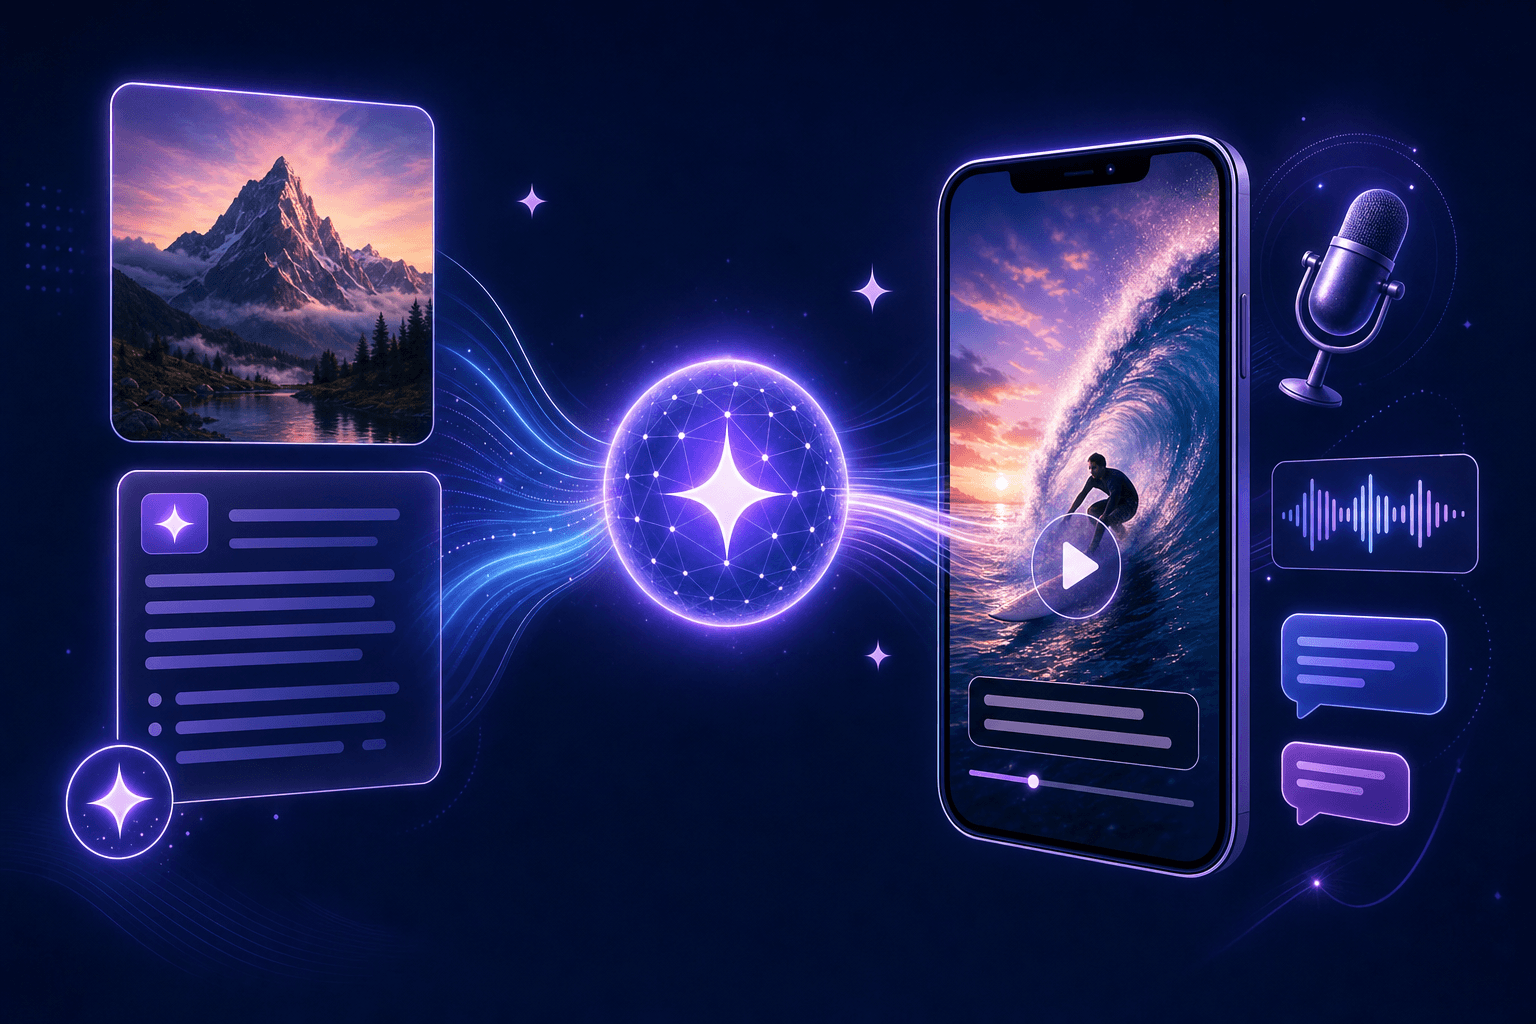
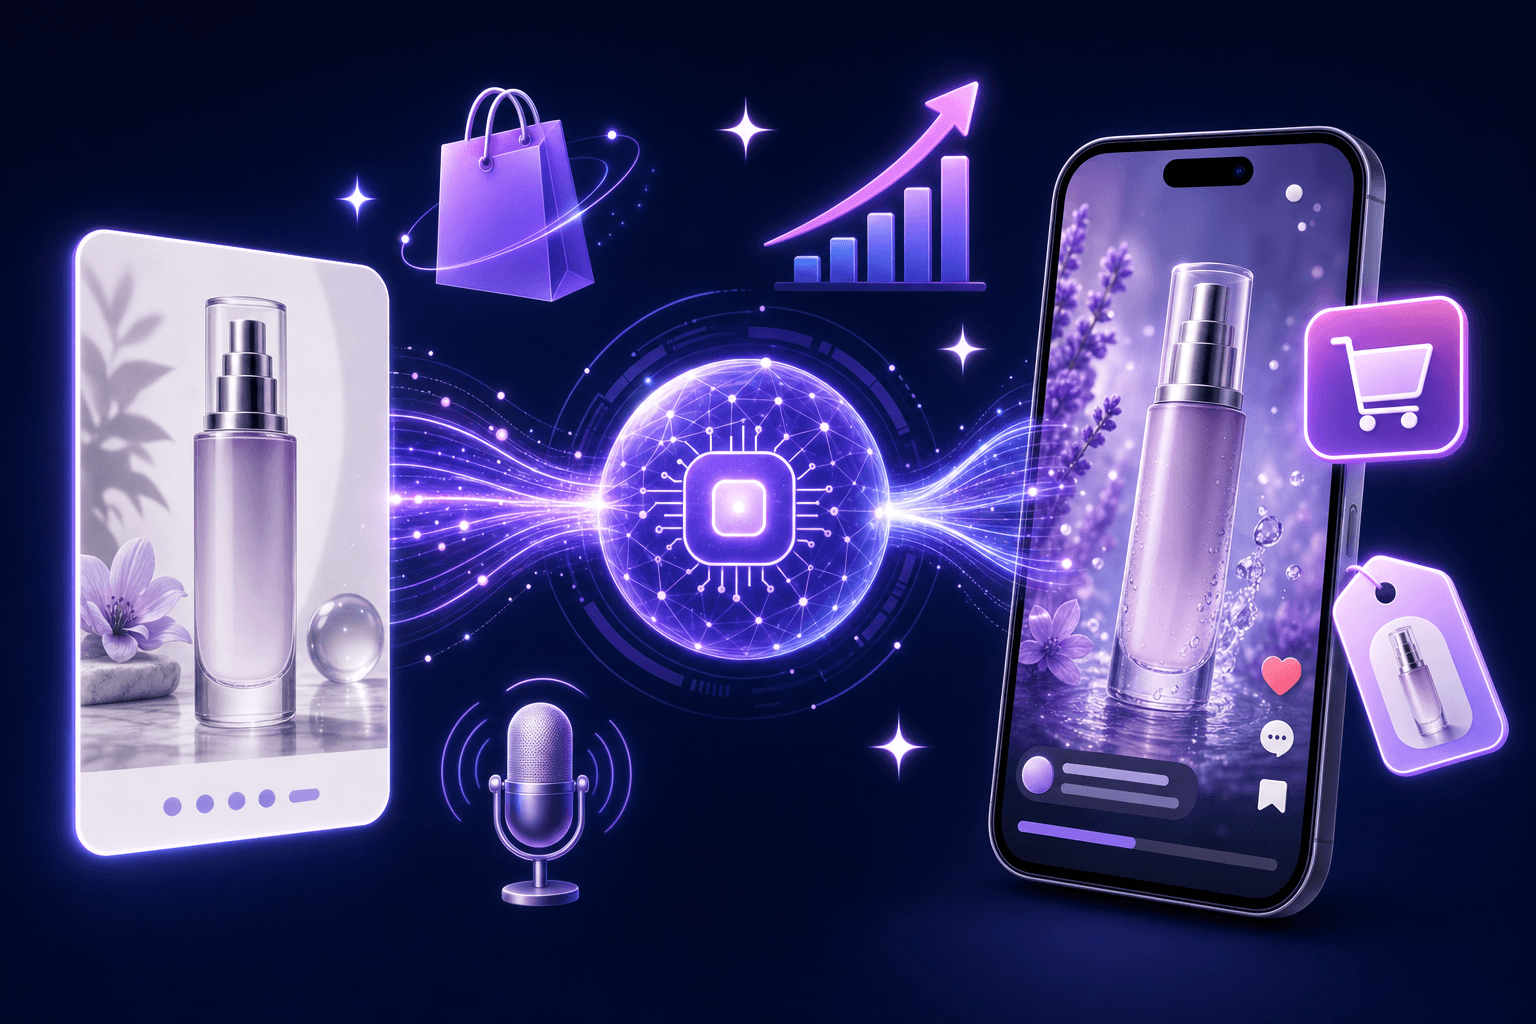
docs(readme): sharpen 带货/e-commerce positioning (CN+EN), add product-to-sales-video case, swap in a 带货-themed hero image

diff --git a/README.en.md b/README.en.md
@@ -1,8 +1,8 @@
-<p align="center"><img src="docs/banner.png" alt="ClipForge — AI short-video generator for TikTok, Reels and Shorts" width="820"/></p>
+<p align="center"><img src="docs/banner.png" alt="ClipForge — open-source AI e-commerce short-video generator: a product photo into a TikTok Shop / Reels / Shorts ad that sells" width="820"/></p>
 
-# ClipForge — Open-Source AI Short-Video Generator
+# ClipForge — Open-Source AI Video Generator for E-Commerce & UGC Ads
 
-> **Turn one sentence — or a single product photo — into a ready-to-post vertical video for TikTok, Reels & YouTube Shorts.** AI writes the script, auto-fills the footage, adds a voiceover and subtitles, and renders it in one click. Free, self-hosted, no watermark.
+> **Turn a product photo into a sales-driving short video.** Upload your product → AI extracts the selling points, writes the script, **keeps the product pixel-accurate (no distortion)**, and adds voiceover + subtitles + music → a ready-to-post ad for **TikTok Shop · Shopify · Amazon · Reels · Shorts**. One seller, dozens of videos a day — free, self-hosted, no watermark.
 
 <p align="right"><strong>English</strong> · <a href="README.md">中文</a></p>
 
@@ -14,12 +14,16 @@
   <img src="https://img.shields.io/badge/UI-中文%20%2F%20English-06B6D4?style=flat-square" alt="Bilingual UI" />
 </p>
 
-**ClipForge** is a free, open-source **AI video generator** you run on your own machine. It automates the whole short-form pipeline — **script → footage → voiceover → subtitles → final cut** — so anyone can make **faceless videos** and **product ads** without filming, editing, or design skills.
+**ClipForge** (formerly *带货剪手 / daihuo-jianshou*) is a free, open-source **AI short-video generator built for selling**. Most AI video tools can't actually do e-commerce — they don't extract selling points, don't understand platform algorithms, and distort your product. ClipForge was designed for **conversion** from day one:
 
-Two zero-friction ways to create:
+- 🎯 **Product fidelity (the e-commerce must-have).** Image-to-image locks your original product photo — swap backgrounds & lighting **without changing the product itself**.
+- 🧲 **Scripts that sell.** Category templates × selling-angle styles (pain-point, lifestyle, comparison, story) + a *golden-3-seconds* hook library — not dry spec-reading.
+- 📈 **Platform-tuned.** Auto hashtags, cover copy & CTAs matched to TikTok / Reels / Shorts and Douyin / Kuaishou / Xiaohongshu algorithms.
+- 📦 **Batch & remix.** Bulk-render 10 products at once, save winning scripts as templates, *clone a trending video* (swap the product), A/B variants.
 
-- 🎬 **Text to video (faceless)** — type one topic, get a narrated vertical short. No product, **no API key required**: footage comes from free stock libraries and the voiceover from a free TTS engine. Perfect for faceless TikTok / YouTube Shorts / Instagram Reels channels.
-- 🛍️ **Product & UGC video** — upload a product photo, and AI analyzes the selling points, writes the scripts, generates the shots, and composes a polished ad — ready to export for TikTok Shop, Shopify, Amazon, Etsy, Douyin, Kuaishou, or Xiaohongshu.
+**And it's free to run at scale:** free stock footage (Openverse images + **Wikimedia real video**) + free Microsoft Edge TTS voiceover + free background music + local FFmpeg — **no API key needed for a full video**. No watermark, local-first & private. Add a key only for higher-end AI models (GPT-Image-2, Seedance 2.0, Kling 3.0…).
+
+> Two ways to create: **🛍️ Product → sales video** (main use case), or **🗣️ one-sentence → faceless topic video** for any non-commerce subject.
 
 <p align="center"><img src="docs/hero.png" alt="ClipForge pipeline: one sentence or a product photo → AI script → auto stock footage → free voiceover → subtitles → vertical video" width="820"/></p>
 
@@ -35,7 +39,7 @@ Two zero-friction ways to create:
 - **Faceless by design.** Every shot is matched to real stock footage — no face, no camera, no on-screen talent needed.
 - **Free stock footage engine.** Aggregated search across **Openverse (keyless), Pixabay, and Pexels**, with automatic attribution and an "always returns footage" fallback so no shot is ever left blank.
 - **Free AI voiceover.** Built-in keyless Microsoft Edge text-to-speech — **$0, no API key**, with 5 natural voices and instant preview. Or plug in OpenAI / Atlas / MiniMax / fal.ai for premium voices.
-- **AI image & video generation.** One UI over many models (Seedance 2.0, GPT-Image-2, Kling, Veo, FLUX, …) across 6 providers, with product-fidelity image-to-image so your product is never distorted.
+- **AI image & video generation.** One UI over many models (Seedance 2.0, GPT-Image-2, Kling, Veo, FLUX, …) across 7 providers, with product-fidelity image-to-image so your product is never distorted.
 - **Auto subtitles & motion.** Burned-in captions timed to the voiceover, Ken Burns motion, cross-fades, and price/feature overlays — all via FFmpeg.
 - **Multi-platform export.** One click re-renders for TikTok / Reels / Shorts (9:16), Xiaohongshu (3:4), and more — no manual re-cropping.
 - **Batch & reuse.** A product library, batch rendering, "clone a trending video" structure reuse, and auto-generated publish captions.
@@ -107,7 +111,7 @@ No watermark, ever. It's self-hosted and open-source.
 Next.js 16 (App Router) + React 19 + Tailwind 4   ·   zero-dependency i18n (zh / en)
    ├─ Script engine        prompt + templates + platform SEO + topic mode
    ├─ Stock engine         Openverse / Pixabay / Pexels aggregate search
-   ├─ AI providers         6 platforms, image + video models
+   ├─ AI providers         7 platforms, image + video models
    ├─ TTS                  free keyless Edge TTS + paid OpenAI / Atlas / MiniMax / fal
    └─ Compositor (FFmpeg)  transitions · Ken Burns · subtitles · mixing · overlays
 Drizzle ORM + better-sqlite3 (local SQLite) · Electron desktop packaging

diff --git a/README.md b/README.md
@@ -2,7 +2,7 @@
 
 # ClipForge — 开源 AI 带货短视频神器 ｜ 一张商品图，自动出卖货视频
 
-> 上传**一张商品图** → AI 自动**提炼卖点 · 写种草脚本 · 锁定商品原图不变形** · 配画面 + 配音 + 字幕 → 几十秒产出能直接发的 **抖音小店 / 快手 / 小红书 / TikTok Shop 卖货短视频**。**0 成本批量出片 · 开源自部署 · 无水印。**
+> **把一张商品图，变成会出单的卖货短视频。** 上传商品图 → AI 提炼卖点 · 写种草脚本 · **锁定商品原图不变形** · 配音 + 字幕 + BGM → 几十秒产出能直接发**抖音小店 / 快手 / 小红书 / TikTok Shop** 的带货视频。**一个人一天出几十条 · 0 成本批量 · 开源无水印。**
 >
 > <sub>📌 原『**带货剪手** / daihuo-jianshou』，仓库 · Star · 历史全部延续；也支持「一句话主题成片」做任意非带货题材。</sub>
 
@@ -41,6 +41,18 @@
 - **🗣️ 一句话主题成片**：不卖货也能用——输入一句话主题，AI 写旁白 → 免费素材自动配画面（含免 Key 实拍视频）→ 免费配音 → 合成竖屏成片。
 
 <p align="center"><img src="docs/hero.png" alt="ClipForge 带货工作流：商品图 → AI 提炼卖点写脚本 → 商品保真配画面 → 免费配音字幕 → 抖音/快手/小红书/TikTok 卖货短视频" width="820"/></p>
+
+## 💡 带货实战：一张商品图 → 30 秒一条
+
+以示例「云柔加厚抽纸」为例（成片见下方 [界面预览](#界面预览)）：
+
+1. **传图填名** — 上传商品图、填「云柔加厚抽纸」、选投放平台（抖音 / 快手 / 小红书）。
+2. **AI 写脚本（~30s）** — 产出 3 套带货脚本（痛点种草 / 场景安利 / 对比测评），自带黄金 3 秒钩子、话题标签、封面文案、互动引导语。
+3. **配画面** — 商品原图**保真出镜** + 免费素材库自动配生活场景 B-roll（不烧 AI Key）。
+4. **自动成片** — 自动配音 + 烧中文字幕 + 价格贴 + 背景音乐，FFmpeg 真实合成。
+5. **一键导出** — 抖音 9:16 / 小红书 3:4 一键切换，发小店即可卖货。
+
+> 整条**全自动、无水印**；大促前还能选 10 个商品**批量出片**、套用爆款模板、A/B 多版本测转化。
 
 **关键词 / Keywords**: AI 带货短视频 · 带货视频制作 · 电商短视频 · 商品视频生成 · 种草视频 · 抖音小店 / 快手 / 小红书 / TikTok Shop 带货 · AI 卖点提炼 · 商品图转视频 · 批量出片 · 爆款复刻 · faceless UGC ads · product video generator · AI 配音 · 开源自部署 · MCP · GPT Image 2 / Seedance 2.0
 